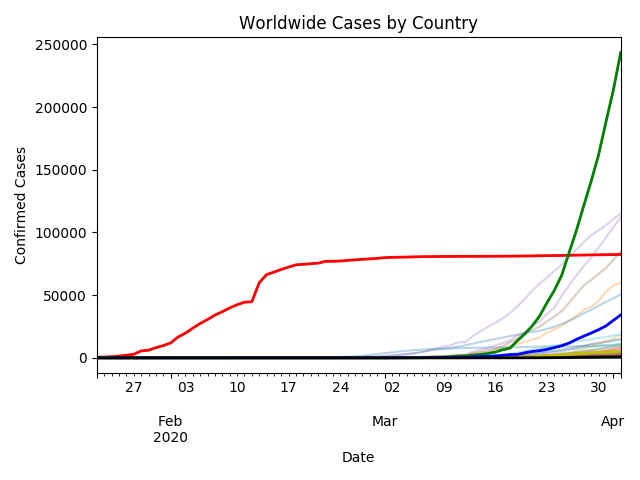
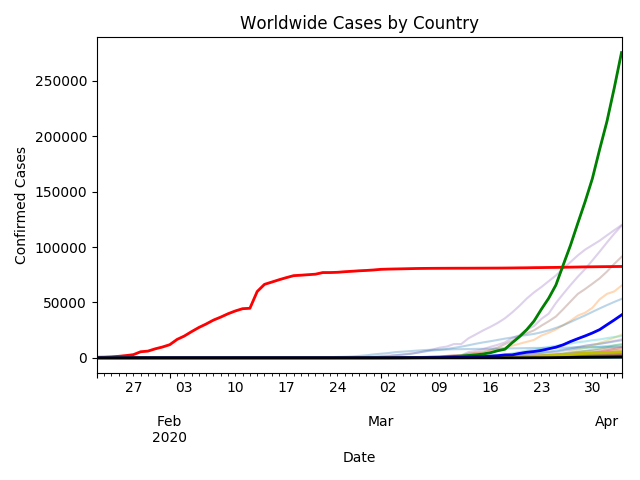
Updated plots

diff --git a/NZModel/NZSIRD.py b/NZModel/NZSIRD.py
@@ -41,10 +41,10 @@ print("Reproduction Number = %f, (%f, %f)" % (np.mean(reproduction_tests), np.pe
 print("Recovery Time = %f, (%f, %f)" % (np.mean(recovery_tests), np.percentile(recovery_tests, 2.5), np.percentile(recovery_tests, 97.5)))
 
 for row in popt:
-    t, y = do_sird(row[0], row[1], 0, [1, init_i, 0, 0], max_days * 1.5)
+    t, y = do_sird(row[0], row[1], 0, [1, init_i, 0, 0], max_days * 1.2)
     plt.plot(t, y[:,1], 'k', alpha=0.1)
 
-t, y = do_sird(mean[0], mean[1], 0, [1, init_i, 0, 0], max_days * 1.5)
+t, y = do_sird(mean[0], mean[1], 0, [1, init_i, 0, 0], max_days * 1.2)
 plt.plot(t, y[:,1], 'k')
 
 plt.plot(day, rc_total/nz_population, 'o')

diff --git a/NZModel/nz_data.py b/NZModel/nz_data.py
@@ -27,7 +27,8 @@ date_column = date_column_sus = "Date of report"
 header=3
 #filename = "covidcase_list_1_apr_2020.xlsx"
 #filename = "./covid-19_case_list_2_april_2020.xlsx"
-filename = "./covid-19-case-details-update-3-april-2020.xlsx"
+#filename = "./covid-19-case-details-update-3-april-2020.xlsx"
+filename = "./covid-19-case-details-update-4-april-2020.xlsx"
 
 # Confirmed Infection Cases
 data_conf = pd.read_excel(filename, header=header)
